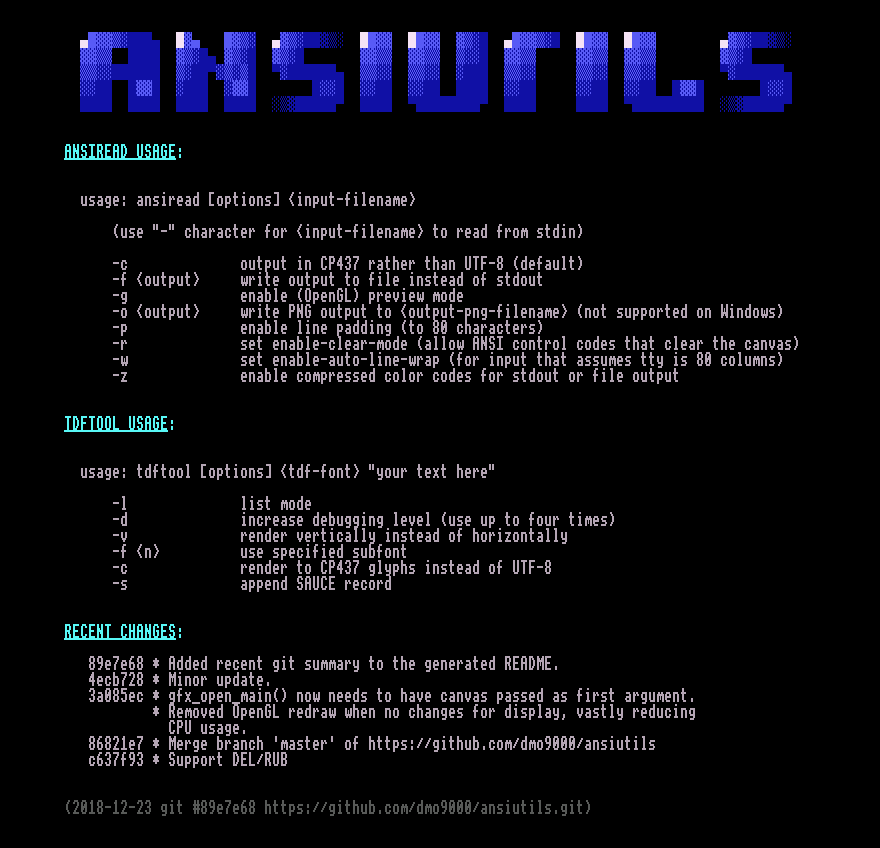
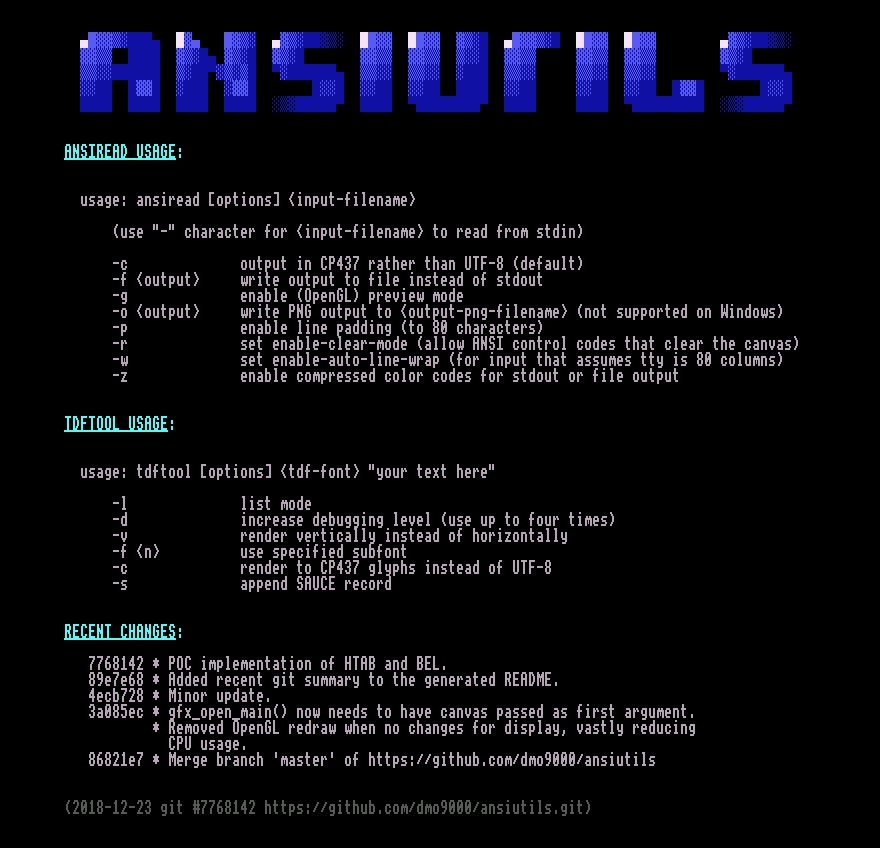
Comment added.

Changed region(s): [[0.092, 0.7665, 0.7977, 0.9198], [0.2455, 0.9505, 0.2761, 0.9811]]

diff --git a/ansistate.c b/ansistate.c
@@ -171,6 +171,7 @@ bool send_byte_to_canvas(ANSICanvas *canvas, unsigned char c)
     if (c == 7) {
         /* BEL - currently not implemented. Hook it up to a SID emulator
         		perhaps? :^) */
+        printf("[TERMINAL BEL]\n");
         return true;
     }
 
